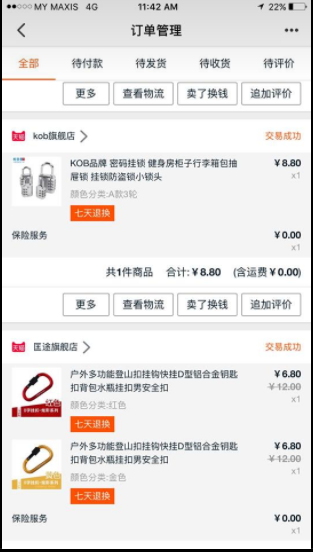
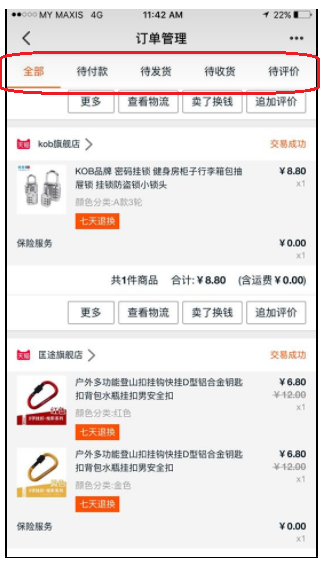
Updates overview/membership.md
Auto commit by GitBook Editor

Changed region(s): [[0.0, 0.0, 1.0, 1.0], [0.2013, 0.5236, 0.345, 0.5851]]

diff --git a/overview/membership.md b/overview/membership.md
@@ -47,19 +47,21 @@ When user click on My Account / My Profile Icon on footer icon. Link to the page
 
 ![](/assets/MyOrder1.png)
 
-#### Important Order Status - All, Payment, Shipping, Review, Refund \(Filter\)
+#### Important!
 
-Each Order details 
+#### Order Status - All, Payment, Shipping, Review, Refund Details, Ranking\(Filter\)
 
-Merchant Shop 
+Each Order display 
 
-Items from Merchant Shop 
+--------------------------------------------------------------------------------------------------------------------------------------------
 
-Total Quantity from Merchant Shop 
+Merchant Shop Name
+
+Items Name from Merchant Shop
+
+Total Quantity from Merchant Shop
 
 Order Status: Successfull or Fail
-
-  
 
 #### 8\) Return & Refund Process
 
@@ -94,7 +96,7 @@ Receiver
 
 Delivery and Receive Time \(Morning Shift 10-11am , Afternoon Shift 12-4pm\)
 
-Product name 
+Product name
 
 Product details, Type, Color
 
@@ -102,7 +104,7 @@ Price
 
 Delivery fees
 
-Total Amount 
+Total Amount
 
 ---
 
